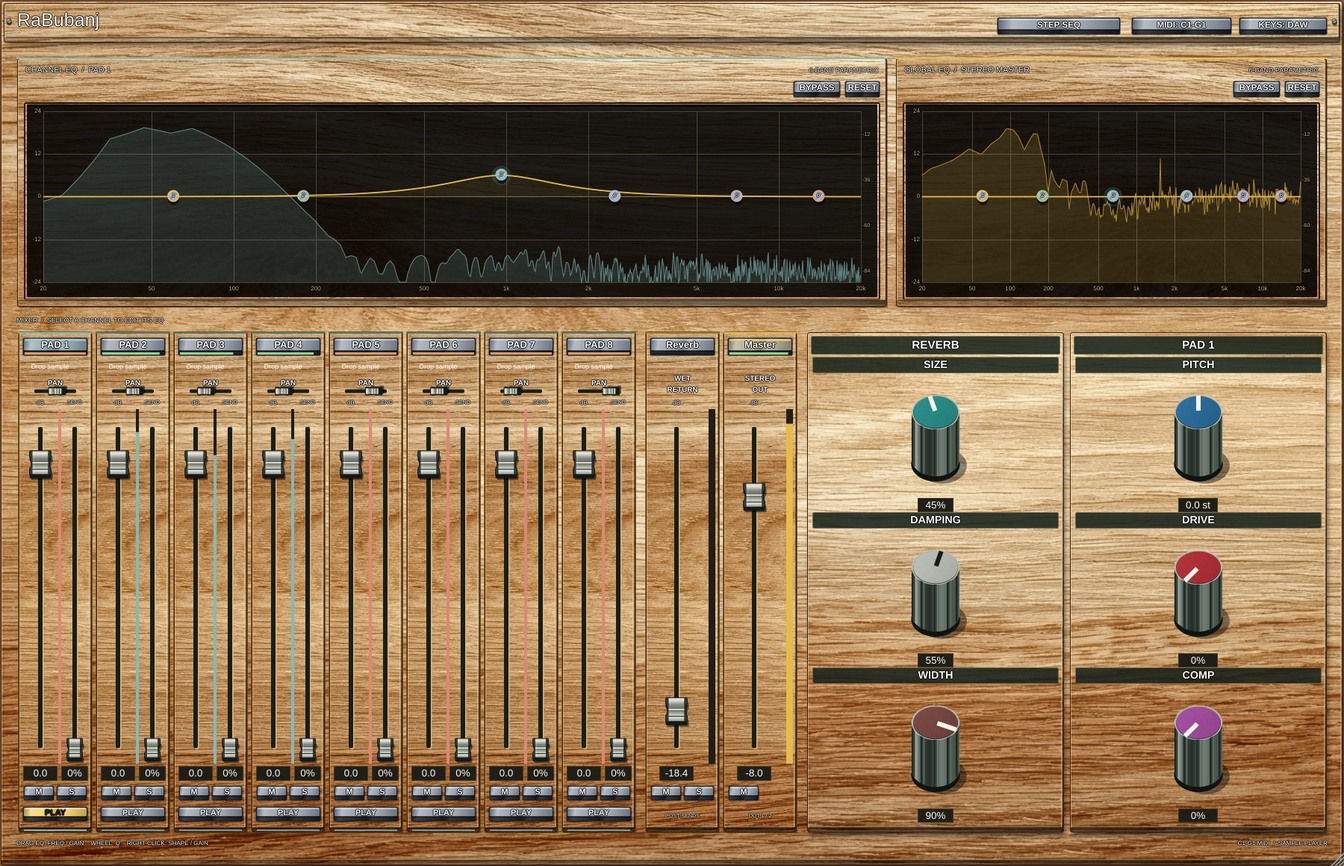
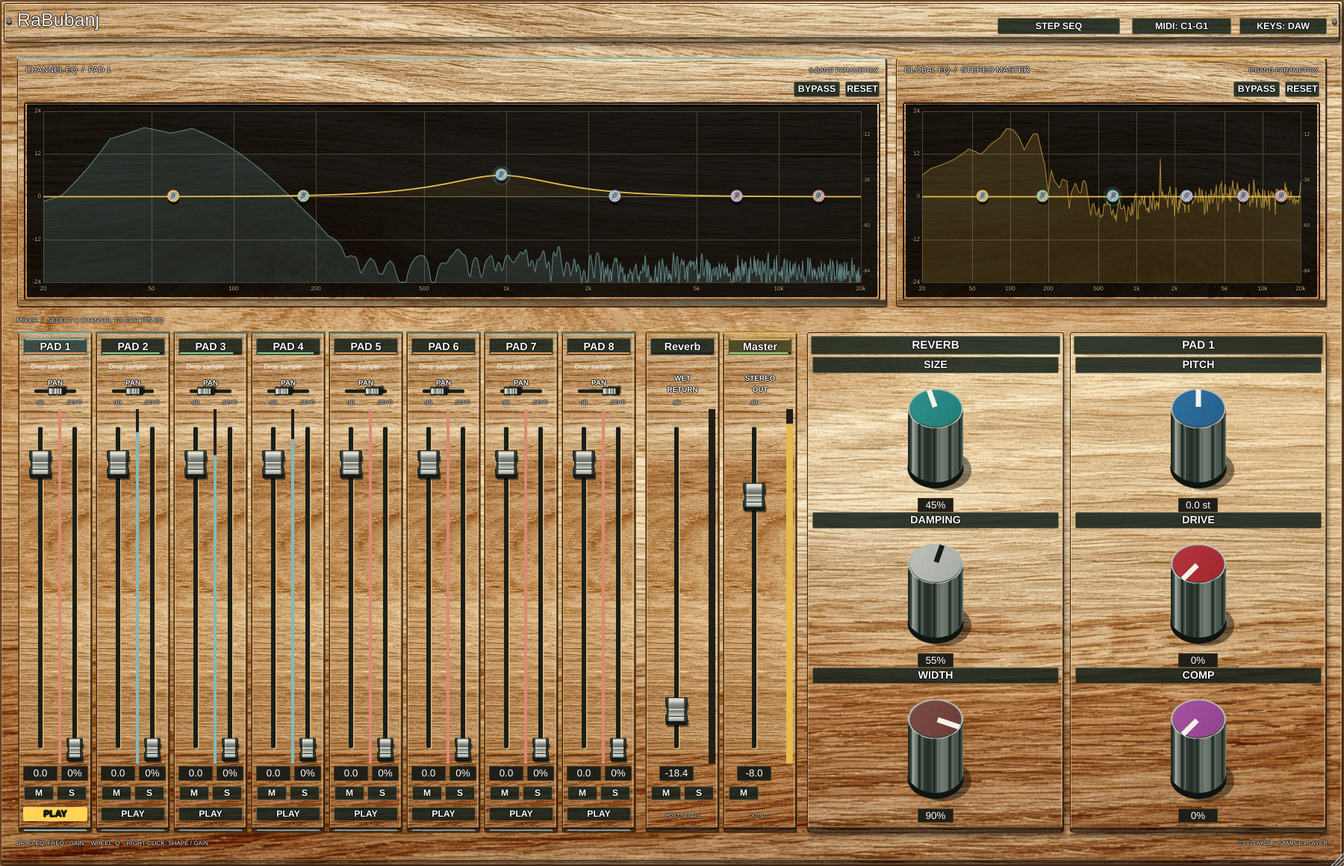
Flatten command captions and step cells; enlarge rotary artwork

diff --git a/Source/PluginEditor.cpp b/Source/PluginEditor.cpp
@@ -28,51 +28,42 @@ void MixerLookAndFeel::drawDocumentWindowTitleBar(juce::DocumentWindow& window, 
 void MixerLookAndFeel::drawButtonBackground(juce::Graphics& g, juce::Button& button, const juce::Colour& colour, bool hover, bool down)
 {
     const bool previewLit = button.getName().startsWith("Preview ") && (down || static_cast<bool>(button.getProperties()["previewLit"]));
-    auto base = button.getName().startsWith("Close ") ? juce::Colour(hover ? 0xffec5951 : 0xffbd3832) : previewLit ? juce::Colour(0xffffd454) : juce::Colour(0xff8b97a5).brighter(hover ? .16f : 0.0f);
-    if (!previewLit && button.getToggleState()) base = base.interpolatedWith(colour, .35f);
-    const auto bounds = button.getLocalBounds().toFloat();
-    const auto lift = down ? 2.0f : 5.0f;
-    auto face = bounds.reduced(2).withTrimmedBottom(lift);
-    if (down) face = face.translated(0, 2);
-    metalSurface(g, bounds.reduced(1), steelDark);
-    g.setColour(juce::Colours::black.withAlpha(.55f)); g.fillRoundedRectangle(bounds.reduced(1).withTrimmedTop(4), 2);
-    metalSurface(g, face, base);
-    g.setColour(juce::Colour(0xfff1f7ff).withAlpha(.8f)); g.drawLine(face.getX()+1, face.getY()+1, face.getRight()-1, face.getY()+1, 1.2f);
-    g.setColour(juce::Colour(0xff151e2b)); g.drawRoundedRectangle(bounds.reduced(1), 2, 1);
-    g.setColour(juce::Colours::black.withAlpha(.75f)); g.drawLine(face.getX(), face.getBottom(), face.getRight(), face.getBottom(), 1.5f);
+    const bool close = button.getName().startsWith("Close ");
+    auto face = previewLit ? juce::Colour(0xffffd454) : close ? juce::Colour(0xffbd3832) : juce::Colour(0xff142019).withAlpha(.86f);
+    if (!previewLit && !close && button.getToggleState()) face = face.interpolatedWith(colour, .2f);
+    if (hover || down) face = face.brighter(down ? .12f : .06f);
+    const auto bounds = button.getLocalBounds().toFloat().reduced(1);
+    flatCaption(g, bounds, face, button.getToggleState() ? colour.withAlpha(.8f) : juce::Colour(0xffe9d6a5).withAlpha(.45f));
     if (button.getProperties().contains("channelLevel"))
     {
         const auto level = static_cast<float>(button.getProperties()["channelLevel"]);
         const auto amount = juce::jlimit(0.0f, 1.0f, (juce::Decibels::gainToDecibels(level, -60.0f)+60)/60);
-        auto bar = bounds.reduced(3).withHeight(3).withY(bounds.getBottom()-5);
+        auto bar = bounds.reduced(2).withHeight(2).withY(bounds.getBottom()-4);
         g.setColour(dark); g.fillRect(bar); bar.setWidth(bar.getWidth()*amount);
         g.setColour(level >= .99f ? juce::Colour(0xffed9b59) : juce::Colour(0xff97d38b)); g.fillRect(bar);
     }
     if (button.getToggleState())
-    {
-        g.setColour(colour.brighter(.2f)); g.fillRoundedRectangle(4, 3, juce::jmax(2.0f, bounds.getWidth()-8), 2, .5f);
-    }
+    { g.setColour(colour.brighter(.2f)); g.fillRoundedRectangle(4, 2, juce::jmax(2.0f, bounds.getWidth()-6), 1.5f, .5f); }
 }
-void MixerLookAndFeel::drawButtonText(juce::Graphics& g, juce::TextButton& button, bool, bool down)
+void MixerLookAndFeel::drawButtonText(juce::Graphics& g, juce::TextButton& button, bool, bool)
 {
     const auto colour = button.findColour(button.getToggleState() ? juce::TextButton::textColourOnId : juce::TextButton::textColourOffId);
-    text(g, button.getButtonText(), button.getLocalBounds().withTrimmedBottom(down ? 1 : 4).reduced(3, 0),
+    text(g, button.getButtonText(), button.getLocalBounds().reduced(3, 0),
         getTextButtonFont(button, button.getHeight()).getHeight(), colour, juce::Justification::centred, true);
 }
 void MixerLookAndFeel::drawComboBox(juce::Graphics& g, int w, int h, bool down, int, int, int, int, juce::ComboBox&)
 {
-    raisedMetal(g, { 0, 0, static_cast<float>(w), static_cast<float>(h) }, steel, 4);
-    g.setColour(juce::Colours::black.withAlpha(down ? .65f : .45f)); g.fillRoundedRectangle(3, 2, static_cast<float>(w-6), static_cast<float>(h-7), 2);
-    juce::Path arrow; const auto cx = static_cast<float>(w-15), cy = static_cast<float>(h)*.43f;
+    flatCaption(g, { 1, 1, static_cast<float>(w-2), static_cast<float>(h-2) }, juce::Colour(0xff142019).withAlpha(down ? .96f : .86f));
+    juce::Path arrow; const auto cx = static_cast<float>(w-15), cy = static_cast<float>(h)*.5f;
     arrow.startNewSubPath(cx-4, cy-2); arrow.lineTo(cx, cy+2); arrow.lineTo(cx+4, cy-2);
     g.setColour(gold); g.strokePath(arrow, juce::PathStrokeType(1.8f));
 }
 void MixerLookAndFeel::drawRotarySlider(juce::Graphics& g, int x, int y, int w, int h, float position, float start, float end, juce::Slider& s)
 {
-    // Keep the approved reference silhouette and scale the complete rotary artwork by 70%.
+    // Keep the approved reference silhouette and enlarge the 0.12 rotary artwork by 15% (70% × 1.15 = 80.5%).
     // Slider bounds and mouse/automation behaviour remain independent of the rendered size.
     juce::Graphics::ScopedSaveState savedKnob(g);
-    g.addTransform(juce::AffineTransform::scale(.7f, .7f, static_cast<float>(x)+static_cast<float>(w)*.5f, static_cast<float>(y)+static_cast<float>(h)*.5f));
+    g.addTransform(juce::AffineTransform::scale(.805f, .805f, static_cast<float>(x)+static_cast<float>(w)*.5f, static_cast<float>(y)+static_cast<float>(h)*.5f));
     const auto diameter = juce::jmin(static_cast<float>(w)-14, (static_cast<float>(h)-9)/1.7f);
     if (diameter < 6) return;
     const auto radius = diameter*.5f, rise = diameter*.98f, capHeight = diameter*.72f;
@@ -140,8 +131,7 @@ namespace
 {
 void drawControlLegend(juce::Graphics& g, const juce::String& label, juce::Rectangle<int> bounds, float fontSize = 16)
 {
-    g.setColour(juce::Colour(0xff142019).withAlpha(.86f)); g.fillRoundedRectangle(bounds.toFloat(), 2.5f);
-    g.setColour(juce::Colour(0xffe9d6a5).withAlpha(.45f)); g.drawRoundedRectangle(bounds.toFloat().reduced(.5f), 2.5f, .8f);
+    flatCaption(g, bounds.toFloat());
     text(g, label, bounds.reduced(2, 0), fontSize, ink, juce::Justification::centred, true);
 }
 void drawSaddleFader(juce::Graphics& g, float cx, float cy, float width, float length)

diff --git a/Source/SequencerEditor.cpp b/Source/SequencerEditor.cpp
@@ -112,12 +112,12 @@ void StepGrid::paint(juce::Graphics& g)
         {
             auto cell = cellBounds(row, step).reduced(2, 3);
             const auto point = cells[static_cast<size_t>(row*32+step)]; const auto value = point.strength;
-            raisedMetal(g, cell, step/4%2 == 0 ? steel.darker(.22f) : steelDark, 4);
-            g.setColour(juce::Colours::black.withAlpha(step/4%2 == 0 ? .08f : .26f)); g.fillRoundedRectangle(cell.reduced(2).withTrimmedBottom(4), 1);
+            g.setColour(step/4%2 == 0 ? juce::Colour(0xff302e24) : juce::Colour(0xff62563a));
+            g.fillRoundedRectangle(cell, 2);
             if (value > 0)
             {
                 const std::array<juce::Colour, 4> colours { juce::Colour(0xff786c49), juce::Colour(0xffa28b4a), juce::Colour(0xffcdb057), juce::Colour(0xffffd46b) };
-                g.setColour(colours[static_cast<size_t>(value-1)].withAlpha(.8f));
+                g.setColour(colours[static_cast<size_t>(value-1)]);
                 auto fill = cell.reduced(2); fill.removeFromTop(fill.getHeight()*(1-static_cast<float>(value)/4)); g.fillRoundedRectangle(fill, 1);
             }
             if (value > 0 && point.timing != 0)
@@ -131,9 +131,9 @@ void StepGrid::paint(juce::Graphics& g)
     for (int row = 0; row < 8; ++row)
     {
         const auto label = padBounds(row).reduced(0, 3);
-        raisedMetal(g, label, row == selectedPad ? steel.brighter(.3f) : steel.darker(.3f), 4);
-        if (row == selectedPad) { g.setColour(gold.withAlpha(.25f)); g.fillRoundedRectangle(label.reduced(2), 2); }
-        text(g, rabubanj::padNames[static_cast<size_t>(row)], label.toNearestInt(), 14, ink, juce::Justification::centred, true);
+        flatCaption(g, label, row == selectedPad ? juce::Colour(0xff344739) : juce::Colour(0xff142019).withAlpha(.86f),
+            row == selectedPad ? gold.withAlpha(.8f) : juce::Colour(0xffe9d6a5).withAlpha(.45f));
+        text(g, rabubanj::padNames[static_cast<size_t>(row)], label.toNearestInt(), 16, ink, juce::Justification::centred, true);
     }
 }
 MidiPatternDrag::MidiPatternDrag(RaBubanjProcessor& p) : TextButton("DRAG MIDI"), processor(p)

diff --git a/Source/UiTheme.h b/Source/UiTheme.h
@@ -46,6 +46,13 @@ inline void raisedMetal(juce::Graphics& g, juce::Rectangle<float> bounds, juce::
     g.setColour(juce::Colours::white.withAlpha(.7f)); g.drawLine(face.getX()+1, face.getY()+1, face.getRight()-1, face.getY()+1, 1);
     g.setColour(juce::Colours::black.withAlpha(.65f)); g.drawLine(face.getX(), face.getBottom(), face.getRight(), face.getBottom(), 1);
 }
+inline void flatCaption(juce::Graphics& g, juce::Rectangle<float> bounds,
+    juce::Colour face = juce::Colour(0xff142019).withAlpha(.86f),
+    juce::Colour edge = juce::Colour(0xffe9d6a5).withAlpha(.45f))
+{
+    g.setColour(face); g.fillRoundedRectangle(bounds, 2.5f);
+    g.setColour(edge); g.drawRoundedRectangle(bounds.reduced(.5f), 2.5f, .8f);
+}
 inline void raisedPanel(juce::Graphics& g, juce::Rectangle<float> bounds, juce::Colour base = panel, float depth = .85f)
 {
     const auto body = bounds.reduced(1.5f); const auto rise = juce::jlimit(4.0f, 10.0f, 4+depth*2.2f);

diff --git a/Source/PluginEditor.h b/Source/PluginEditor.h
@@ -60,7 +60,7 @@ public:
         auto* label = juce::LookAndFeel_V4::createSliderTextBox(s);
         label->setFont(juce::FontOptions(11.0f)); label->setBorderSize(juce::BorderSize<int>(0, 1, 0, 1)); return label;
     }
-    juce::Font getTextButtonFont(juce::TextButton& button, int height) override { return juce::Font(juce::FontOptions(juce::jmin(button.getName().startsWith("Select ") ? 15.0f : 13.0f, static_cast<float>(height)*.58f))).boldened(); }
+    juce::Font getTextButtonFont(juce::TextButton& button, int height) override { return juce::Font(juce::FontOptions(juce::jmin(button.getName().startsWith("Select ") ? 16.0f : 14.0f, static_cast<float>(height)*.65f))).boldened(); }
 };
 
 class RaBubanjEditor final : public juce::AudioProcessorEditor, private juce::Timer

diff --git a/README.md b/README.md
@@ -1,12 +1,12 @@
-# RaBubanj 0.12.0
+# RaBubanj 0.13.0
 
 Windows x64 VST3 and standalone drum sample instrument by Voyagersquare, with raised wood panels and metal controls, per-channel processing and a shared stereo Reverb. Portable ZIP, without an installer.
 
-[Download Windows x64 ZIP](https://github.com/voyagersquare/RaBubanj/actions/runs/44801723658/artifacts/14660988968) · [Passed Windows build and validation](https://github.com/voyagersquare/RaBubanj/actions/runs/44801723658). Artifacts are retained for 30 days and may require GitHub sign-in.
+Windows 0.13 package links will be added after native validation.
 
 [Windows instructions in Croatian](docs/WINDOWS-HR.md) · [Validation](VALIDATION.md)
 
-![RaBubanj 0.12 PAD mixer and spectrum displays](docs/preview.png)
+![RaBubanj 0.13 PAD mixer and spectrum displays](docs/preview.png)
 
 ## Step sequencer 0.10
 
@@ -16,7 +16,7 @@ Windows x64 VST3 and standalone drum sample instrument by Voyagersquare, with ra
 - **Hold a note for 650 ms without moving** to open its dark **TIMING** slider. Choose **−50% to +50% of a sixteenth-note step**; negative is earlier, positive is later, and 0% is on the grid. The readout also shows milliseconds at the current DAW tempo. Double-click the slider to reset to 0. A long press preserves note velocity; a long press on an empty cell creates a strong note. Click the grid or X to dismiss. A small cyan/orange mark identifies shifted notes.
 - Click a **PAD label on the left** to select and audition its current sample once. The selected PAD label is brighter and updates the main channel selection. Clicking grid cells keeps the existing four-strength editing workflow.
 - A larger window includes a **live selected-pad waveform** below the grid. It shows approximately one second of stereo peak envelopes after Pitch/Drive/Comp/EQ, before level/pan. Both stereo sides are included, so opposite-phase audio remains visible. Select another PAD label to clear the view and follow that sound; incoming MIDI, pad audition and sequence hits all appear. Imported sample filenames remain on the mixer strips.
-- Alternating four-step groups have a brighter light background for clearer beat divisions.
+- Flat cells alternate four darker steps and four lighter steps for clearer beat divisions.
 - The SLABA/SREDNJA/JAKA brush buttons are removed. Cell bar height and brightness show the four strengths.
 - The **Pattern 1–Pattern 4 dropdown** chooses one of four independent patterns. Selection changes playback at the next audio block while retaining DAW phase. All four patterns, their per-note timing offsets and the selected pattern are saved in the project.
 - **SEQ ON** follows DAW tempo, playback position, Play/Stop and host loops. **Space stays with the DAW transport.** There is no competing local clock.
@@ -35,11 +35,11 @@ The sequencer requires an active DAW audio engine and a monitored instrument tra
 ## Wood panels and metal controls
 
 - The user's original **7680×4302 JPEG** from `wood texture.rar` is embedded **byte for byte** as `Assets/wood-reference.jpg`. Natural wood grain covers the housing, channel sections, EQ frames, Reverb/FX panels and sequencer enclosure. Rendering uses uniform scaling/cropping and separate relief lighting; no replacement texture or recoloured source image is used.
-- **All controls are metal:** tall fluted cylinders with coloured matte top discs, thick position bars and black bases; contoured saddle fader caps with dark side cheeks and brushed aluminium bridges; matching pan/timing slider handles, switches, PAD labels, step keys, dropdown housings, EQ nodes and screws. Brushed surfaces use cold highlights, dark sidewalls and deep shadows. Metal materials are independent of the wood image.
-- Rotary tops follow the supplied reference palette: **SIZE teal, DAMPING off-white, WIDTH burgundy, PITCH blue, DRIVE red and COMP purple**. The light damping cap uses a black marker; the other caps use white markers. Broad flutes, a thin scalloped silver lip and a matte cap finish replace the earlier fine knurling and machining rings.
-- The fader design follows the supplied console photo, with raised end wings, a concave waist, dark end cheeks and a white centre index. Travel padding fits the taller caps at both extremes.
-- Rotary artwork is **30% smaller** than the approved reference-model preview, preserving its proportions and mouse/automation behaviour. The labels above SIZE/DAMPING/WIDTH/PITCH/DRIVE/COMP are larger (16 px bold) on dark contrast plates; Reverb/PAD section captions use 17 px bold.
-- The strong height and bevels from the relief study remain. Fader travel reserves enough room for the taller caps. White outlined legends remain readable on both wood and metal. **PLAY still lights yellow**, close buttons stay red, and sequence velocity/microtiming/selection indicators keep their existing meanings.
+- **Flat caption controls** replace raised metal pushbuttons: STEP SEQ, MIDI/keyboard modes, EQ BYPASS/RESET, channel names, M/S and PLAY. The sequencer uses the same flat treatment for SEQ ON/OFF, DRAG MIDI, pattern selection, PAD labels and close controls. They look like the dark REVERB/PAD legend plates and retain their click actions, meters, state feedback and keyboard focus behaviour.
+- Rotary knobs retain the supplied-reference silhouette: tall fluted metal cylinders, black bases, coloured matte top discs and thick position bars. They are **15% larger than 0.12** (80.5% of the original reference-model artwork size). Colours remain SIZE teal, DAMPING off-white, WIDTH burgundy, PITCH blue, DRIVE red and COMP purple.
+- Faders keep the contoured saddle profile, dark end cheeks, brushed aluminium centre and white index. PAN/TIMING use the matching horizontal profile.
+- **Sequencer cells are flat again**, with **four dark steps followed by four light steps**, starting dark at step 1. Four velocity bar heights/colours, the playhead and per-note timing markers retain their meanings.
+- Larger white bold command labels stay on dark contrast plates. PLAY still lights yellow; close controls stay red. Wood texture, raised panel frames and original sample/sequence workflows remain.
 - [Material and original-asset details](docs/WOOD-UI.md).
 - **Right-click an EQ node** for the dark context menu with **Curve shape** (six types), **Gain (dB)**, **Invert gain** and **Band enabled**. Alt-click toggles a band. Drag, wheel, double-click, bypass and reset retain their actions.
 - [EQ context-menu preview](docs/eq-menu.png).

diff --git a/VALIDATION.md b/VALIDATION.md
@@ -1,47 +1,5 @@
-# RaBubanj 0.12 validation
+# RaBubanj 0.13 validation
 
-Verified 20 November 2026. Tested source: `a2aa5e18dc80121f37b5401bf2ed0a024d3e304c`.
+Native Windows validation pending for flat caption controls, enlarged rotary art and flat grouped step cells.
 
-[Native Windows run](https://github.com/voyagersquare/RaBubanj/actions/runs/44801723658) · [Windows x64 ZIP](https://github.com/voyagersquare/RaBubanj/actions/runs/44801723658/artifacts/14660988968) · [pluginval logs](https://github.com/voyagersquare/RaBubanj/actions/runs/44801723658/artifacts/14661004023)
-
-## Build and package
-
-- MSVC Release x64 VST3 and standalone: passed. All **nine** CTest suites passed with zero failures.
-- pluginval 1.0.4, strictness **5: SUCCESS**, explicitly awaited before packaging. The optional separate Steinberg validator is not configured.
-- Downloaded ZIP integrity and SHA256 match GitHub's artifact digest. Both PE binaries are AMD64; the VST3 manifest is 0.12.0. Bundled project sources match the tested commit after Windows newline normalization. Corresponding JUCE source and licenses are included.
-- Portable archive: 66,535,110 bytes, without an installer. The original JPEG is verified inside the bundled source and both binaries.
-- The same nine suites passed locally in Linux Release. Actual JUCE mixer/sequencer previews were exported and inspected. Mixer and sequencer preview runs used the final reference-control renderer and the real metal look-and-feel.
-
-## Original wood asset
-
-- The user-supplied RAR contains `natural-light-brown-wood-grain-texture.jpg`; its unchanged bytes are committed as `Assets/wood-reference.jpg`.
[1 lines of base64/hex data omitted]
-- CMake generates a binary resource containing those source bytes. The image is decoded/cached on the GUI thread, shared across editor instances, and needs no external image path at runtime. Image loading does not occur in the audio callback.
-- Housing, channel sections, EQ frames, Reverb/FX panels and sequencer enclosure show the original natural grain. Uniform scaling/cropping fits the panels; relief lighting is separate. No replacement texture or recoloured source image is used.
-
-## Reference-shaped controls, reduced rotary size and clearer legends
-
-- Rotary controls model the supplied reference: tall metal cylinders with broad vertical flutes, black bases, scalloped silver lips and coloured matte top discs. Thick bars reach the rim; DAMPING uses a black bar on its off-white cap, while the other five caps use white bars. Colour mapping is SIZE teal, WIDTH burgundy, PITCH blue, DRIVE red and COMP purple.
-- The complete rotary artwork is uniformly scaled to **70%** of the approved reference-model preview dimensions, keeping the cylinder proportions. Slider bounds, parameter ranges, automation and mouse interaction are retained.
-- Command labels increase from 12 to **16 px bold**, on dark contrast plates with light borders. Reverb/PAD section captions increase from 14 to **17 px bold**.
-- Faders follow the console photo with contoured saddles, raised wings, dark end cheeks, brushed aluminium bridges and centred white index lines. SEND uses a smaller cap; PAN/TIMING use the same profile rotated for horizontal travel. Increased travel padding keeps the raised caps inside the control at the extremes.
-- All pushbuttons, dropdown housings, PAD labels, sequencer keys, EQ nodes and screws use the metal material. Metal rendering is independent of the wood resource; no wood remains on control faces.
-- White outlined legends remain readable over wood and metal. PLAY lights yellow, close controls remain red, and four sequence strengths, selected PADs, playhead and early/late note markers retain their semantics.
-- Rendered minimum/default/maximum mixer views were exported and visually inspected for label legibility, smaller rotary art and cap clearance. The actual sequencer window was also exported. The standalone sequencer/timing preview fixture now inherits the editor look-and-feel and resets that reference before destruction.
-- [Mixer](docs/preview.png) · [Minimum layout](docs/controls-minimum.png) · [Maximum layout](docs/controls-large.png) · [Sequencer window](docs/sequencer-window.png) · [Note timing](docs/note-timing.png) · [EQ menu](docs/eq-menu.png).
-
-## Functional regression checks
-
-Nine suites cover engine/pitch, EQ, legacy sources, processor/MIDI/state, mixer/editor, sample import/recall, channel colour/spectrum, sequencer timing and sequencer/MIDI/editor integration. No DSP, MIDI map, parameter identity, state schema, sample loading or sequencer scheduling changes are introduced in this release.
-
-Existing coverage includes per-pad audition and selection, yellow PLAY feedback, EQ context actions, min/default/max editor/window bounds, explicit X and STEP SEQ toggling, waveform capture/isolation, four-pattern recall/migration, left-drag painting, four click-selected velocities, right-drag erase, per-note timing, MIDI file contents, host transport/loops and Space forwarding. Earlier timing/sanitizer validation is archived in [0.10 validation](docs/VALIDATION-0.10.md). [Previous material validation](docs/VALIDATION-0.11.md).
-
-Actual Ableton sessions, native Windows sample/MIDI drops into a DAW, physical MIDI/audio hardware and native host Space handling have not been exercised here. Tests cover the plugin-side functionality and simulated host transport. Standalone audition/external MIDI remains available, but standalone does not supply DAW transport for the sequencer.
-
-## Checksum
-
-```text
-caa498d3f7d6ba886c4a0ac0146c35cf2e5c519b2a10a58db7ee59861e22adde  RaBubanj-0.12.0-Windows-x64.zip
-```
-
-Artifacts are retained for 30 days and may require GitHub sign-in. Rebuild: **Actions → Windows VST3 → Run workflow**.
+[Previous validation](docs/VALIDATION-0.12.md).

diff --git a/docs/VALIDATION-0.12.md b/docs/VALIDATION-0.12.md
@@ -1,0 +1,47 @@
+# RaBubanj 0.12 validation
+
+Verified 20 November 2026. Tested source: `a2aa5e18dc80121f37b5401bf2ed0a024d3e304c`.
+
+[Native Windows run](https://github.com/voyagersquare/RaBubanj/actions/runs/44801723658) · [Windows x64 ZIP](https://github.com/voyagersquare/RaBubanj/actions/runs/44801723658/artifacts/14660988968) · [pluginval logs](https://github.com/voyagersquare/RaBubanj/actions/runs/44801723658/artifacts/14661004023)
+
+## Build and package
+
+- MSVC Release x64 VST3 and standalone: passed. All **nine** CTest suites passed with zero failures.
+- pluginval 1.0.4, strictness **5: SUCCESS**, explicitly awaited before packaging. The optional separate Steinberg validator is not configured.
+- Downloaded ZIP integrity and SHA256 match GitHub's artifact digest. Both PE binaries are AMD64; the VST3 manifest is 0.12.0. Bundled project sources match the tested commit after Windows newline normalization. Corresponding JUCE source and licenses are included.
+- Portable archive: 66,535,110 bytes, without an installer. The original JPEG is verified inside the bundled source and both binaries.
+- The same nine suites passed locally in Linux Release. Actual JUCE mixer/sequencer previews were exported and inspected. Mixer and sequencer preview runs used the final reference-control renderer and the real metal look-and-feel.
+
+## Original wood asset
+
+- The user-supplied RAR contains `natural-light-brown-wood-grain-texture.jpg`; its unchanged bytes are committed as `Assets/wood-reference.jpg`.
[1 lines of base64/hex data omitted]
+- CMake generates a binary resource containing those source bytes. The image is decoded/cached on the GUI thread, shared across editor instances, and needs no external image path at runtime. Image loading does not occur in the audio callback.
+- Housing, channel sections, EQ frames, Reverb/FX panels and sequencer enclosure show the original natural grain. Uniform scaling/cropping fits the panels; relief lighting is separate. No replacement texture or recoloured source image is used.
+
+## Reference-shaped controls, reduced rotary size and clearer legends
+
+- Rotary controls model the supplied reference: tall metal cylinders with broad vertical flutes, black bases, scalloped silver lips and coloured matte top discs. Thick bars reach the rim; DAMPING uses a black bar on its off-white cap, while the other five caps use white bars. Colour mapping is SIZE teal, WIDTH burgundy, PITCH blue, DRIVE red and COMP purple.
+- The complete rotary artwork is uniformly scaled to **70%** of the approved reference-model preview dimensions, keeping the cylinder proportions. Slider bounds, parameter ranges, automation and mouse interaction are retained.
+- Command labels increase from 12 to **16 px bold**, on dark contrast plates with light borders. Reverb/PAD section captions increase from 14 to **17 px bold**.
+- Faders follow the console photo with contoured saddles, raised wings, dark end cheeks, brushed aluminium bridges and centred white index lines. SEND uses a smaller cap; PAN/TIMING use the same profile rotated for horizontal travel. Increased travel padding keeps the raised caps inside the control at the extremes.
+- All pushbuttons, dropdown housings, PAD labels, sequencer keys, EQ nodes and screws use the metal material. Metal rendering is independent of the wood resource; no wood remains on control faces.
+- White outlined legends remain readable over wood and metal. PLAY lights yellow, close controls remain red, and four sequence strengths, selected PADs, playhead and early/late note markers retain their semantics.
+- Rendered minimum/default/maximum mixer views were exported and visually inspected for label legibility, smaller rotary art and cap clearance. The actual sequencer window was also exported. The standalone sequencer/timing preview fixture now inherits the editor look-and-feel and resets that reference before destruction.
+- [Mixer](preview.png) · [Minimum layout](controls-minimum.png) · [Maximum layout](controls-large.png) · [Sequencer window](sequencer-window.png) · [Note timing](note-timing.png) · [EQ menu](eq-menu.png).
+
+## Functional regression checks
+
+Nine suites cover engine/pitch, EQ, legacy sources, processor/MIDI/state, mixer/editor, sample import/recall, channel colour/spectrum, sequencer timing and sequencer/MIDI/editor integration. No DSP, MIDI map, parameter identity, state schema, sample loading or sequencer scheduling changes are introduced in this release.
+
+Existing coverage includes per-pad audition and selection, yellow PLAY feedback, EQ context actions, min/default/max editor/window bounds, explicit X and STEP SEQ toggling, waveform capture/isolation, four-pattern recall/migration, left-drag painting, four click-selected velocities, right-drag erase, per-note timing, MIDI file contents, host transport/loops and Space forwarding. Earlier timing/sanitizer validation is archived in [0.10 validation](VALIDATION-0.10.md). [Previous material validation](VALIDATION-0.11.md).
+
+Actual Ableton sessions, native Windows sample/MIDI drops into a DAW, physical MIDI/audio hardware and native host Space handling have not been exercised here. Tests cover the plugin-side functionality and simulated host transport. Standalone audition/external MIDI remains available, but standalone does not supply DAW transport for the sequencer.
+
+## Checksum
+
+```text
+caa498d3f7d6ba886c4a0ac0146c35cf2e5c519b2a10a58db7ee59861e22adde  RaBubanj-0.12.0-Windows-x64.zip
+```
+
+Artifacts are retained for 30 days and may require GitHub sign-in. Rebuild: **Actions → Windows VST3 → Run workflow**.

diff --git a/docs/WOOD-UI.md b/docs/WOOD-UI.md
@@ -2,11 +2,13 @@
 
 The housing, channel sections, EQ frames and sequencer enclosure use the original user-supplied JPEG. See [asset provenance and checksum](../Assets/README.md). The source image is not edited, recoloured or regenerated; its natural grain is drawn at uniform scale and cropped as needed. Bevel lighting and shadows are drawn separately.
 
-Round controls follow the supplied knob reference: tall metal cylinders with broad vertical flutes, black bases, thin scalloped silver lips and matte coloured top discs. Thick radial bars reach the rim; the off-white cap has a black bar and the other caps have white bars. Colours: SIZE teal, DAMPING off-white, WIDTH burgundy, PITCH blue, DRIVE red and COMP purple. Fader caps follow the console reference with a concave saddle, raised wings, dark end cheeks, brushed aluminium centre and white index line. The same profile is scaled/rotated for SEND, PAN and TIMING handles. Pushbuttons, dropdown housings, PAD labels, sequencer keys, EQ nodes and screws also use metal surfaces. Cool directional highlights and fine brushing distinguish them from the wood.
+Round controls follow the supplied knob reference: tall metal cylinders with broad vertical flutes, black bases, thin scalloped silver lips and matte coloured top discs. Thick radial bars reach the rim; the off-white cap has a black bar and the other caps have white bars. Colours: SIZE teal, DAMPING off-white, WIDTH burgundy, PITCH blue, DRIVE red and COMP purple. Fader caps follow the console reference with a concave saddle, raised wings, dark end cheeks, brushed aluminium centre and white index line. The same profile is scaled/rotated for SEND, PAN and TIMING handles. EQ nodes and screws retain metal surfaces. Cool directional highlights and fine brushing distinguish them from the wood.
 
-The complete rotary artwork is rendered at 70% of the approved reference-model size. Slot bounds, mouse interaction and automation remain unchanged. The six command legends are 16 px bold on dark contrast plates, with 17 px section captions.
+Rotary artwork is 15% larger than in 0.12: 80.5% of the original reference-model size. Slot bounds, mouse interaction and automation remain. Large command legends remain bold and readable on dark contrast plates.
 
-White outlined legends, yellow PLAY feedback, red close buttons, channel meters and velocity/timing markers retain their functions. The visual change does not alter processing, MIDI mapping, patterns, sample recall or parameter IDs.
+Raised text buttons and selector housings are replaced by flat caption plates throughout the mixer, EQ panels, header and sequencer. Click actions, state feedback, channel meters, yellow PLAY illumination and red close controls remain.
+
+Step cells return to plain flat rectangles, starting with four dark steps and alternating with four light steps. Filled velocity bars, selected-pad highlights, playhead outlines and timing markers remain distinct. The flat caption and step renderers contain no metal surface fill, bevel, raised sidewall or cast shadow.
 
 ![Wood and metal mixer](preview.png)
 ![Wood and metal sequencer](sequencer-window.png)

diff --git a/docs/WINDOWS-HR.md b/docs/WINDOWS-HR.md
@@ -1,6 +1,6 @@
-# RaBubanj 0.12.0 — Windows x64, bez instalera
+# RaBubanj 0.13.0 — Windows x64, bez instalera
 
-1. Preuzmi ZIP `RaBubanj-0.12.0-Windows-x64` iz uspješnog GitHub Actions builda i raspakiraj ga.
+1. Preuzmi ZIP `RaBubanj-0.13.0-Windows-x64` iz uspješnog GitHub Actions builda i raspakiraj ga.
 2. Zatvori DAW i kopiraj cijelu mapu **RaBubanj.vst3** u `C:\Program Files\Common Files\VST3\`. Zamijeni cijeli prethodni paket.
 3. Ponovno skeniraj VST3 instrumente u 64-bitnom DAW-u, dodaj RaBubanj na MIDI traku i uključi arm/monitoring.
 4. `RaBubanj.exe` je samostalna aplikacija, bez instalera; u njoj odaberi audio i MIDI uređaj.
@@ -34,11 +34,11 @@ MIDI izvoz je datoteka jednog tracka, 960 PPQ, kanal 10, duljine osam beatova. P
 
 Kućište, kanalni paneli, EQ okviri te Reverb/FX i sekvencer koriste izvornu drvenu teksturu iz poslane arhive. JPEG je ugrađen bez izmjene datoteke; prilagodba prikaza zadržava omjer slike, uz odvojeno osvjetljenje reljefa.
 
-**Svi gumbi i kliznici su metalni:** visoki cilindri sa širokim uzdužnim utorima, obojenim mat gornjim plohama, debelim oznakama i crnom bazom; profilirane kapice fadera s udubljenom sredinom i tamnim krajevima; PAN/TIMING kliznici, tipke, PAD oznake, koraci sekvencera i točke EQ-a. Hladni odsjaji i sjene naglašavaju visinu. Natpisi su bijeli s tamnim rubom radi čitljivosti. PLAY ostaje žut pri pritisku, X crven, a oznake jačina i pomaka nota zadržavaju značenje. Funkcije i spremljeni projekti ostaju isti.
+Zaokružene metalne tipke zamijenjene su **ravnim bijelim natpisima na tamnim podlogama**, poput REVERB/PAD naslova: STEP SEQ, MIDI/KEYS, EQ BYPASS/RESET, nazivi kanala, M/S i PLAY. Isto vrijedi u sekvenceru za SEQ ON/OFF, DRAG MIDI, izbor patterna, PAD oznake i X. Klikovi i sve dosadašnje funkcije ostaju; PLAY pri pritisku svijetli žuto, X je crven, aktivna stanja i kanalni metri i dalje se prikazuju.
 
-Kružni gumbi smanjeni su za **30%**, uz zadržan oblik i funkciju. Natpisi SIZE/DAMPING/WIDTH/PITCH/DRIVE/COMP sada su veći i podebljani, na tamnim podlogama radi čitljivosti; povećani su i naslovi REVERB/PAD.
+Kružni metalni gumbi s obojenim gornjim plohama **povećani su za 15% u odnosu na 0.12**, uz zadržane proporcije. Boje: SIZE tirkizna, DAMPING bijela, WIDTH bordo, PITCH plava, DRIVE crvena i COMP ljubičasta. Profilirani faderi ostaju prema primjeru konzole. Veliki natpisi iznad kontrola ostaju podebljani i kontrastni.
 
-Boje prema primjeru: SIZE tirkizna, DAMPING bijela, WIDTH bordo, PITCH plava, DRIVE crvena i COMP ljubičasta. Oznaka na bijelom gumbu je crna; ostale su bijele. Kapice fadera imaju oblik prema primjeru konzole, s povišenim krilcima, brušenim metalnim mostom i bijelom središnjom oznakom.
+Ćelije sekvencera vraćene su na **jednostavan ravan izgled**: prve četiri su tamnije, sljedeće četiri svjetlije i tako do 32. Četiri jačine udarca, pomaci nota, uređivanje i MIDI izvoz ostaju kao prije.
 
 ## Nazivi kanala i preslušavanje
 

diff --git a/docs/ROADMAP.md b/docs/ROADMAP.md
@@ -75,3 +75,8 @@ Original user-provided wood image embedded unchanged. Deep panel relief with tal
 ## 0.12 — reference-shaped knobs and faders
 
 Tall fluted metal cylinders with six coloured matte cap discs, thick rim-reaching indicators and black bases. Rotary artwork reduced by 30%, with larger high-contrast command labels. Console-style saddle faders with dark side cheeks and aluminium bridges; matching PAN/TIMING handles. Wood panels and existing controls/workflows retained.
+
+
+## 0.13 — flat captions and sequencer cells
+
+Flat legend-style commands across the main editor and sequencer, retaining all actions and feedback. Rotary artwork enlarged 15% from 0.12. Sequencer cells return to a simple flat style with four dark/four light grouping.
